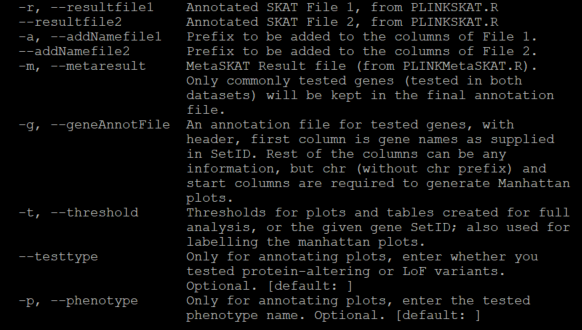
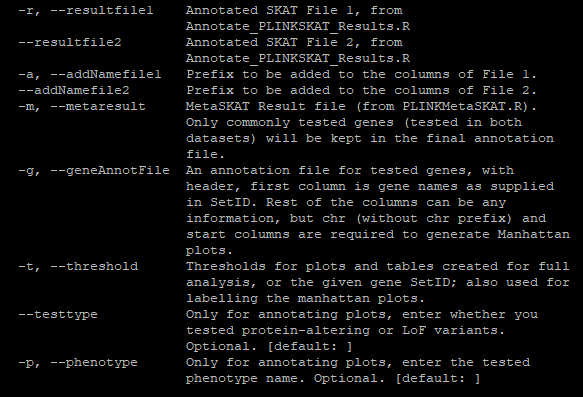
done

diff --git a/analysis_scripts/README.md b/analysis_scripts/README.md
@@ -2,7 +2,7 @@
 
 ------
 
-Analysis scripts of the gene-based rare variant association studies (RVASs) conducted for the study [**"Whole-exome rare variant analysis of Alzheimer’s disease and related biomarker traits"**](https://alz-journals.onlinelibrary.wiley.com/doi/10.1002/alz.12842) by Küçükali _et al._, Alzheimer's and Dementia (2022), https://doi.org/10.1002/alz.12842 .
+Analysis scripts of the gene-based rare variant association studies (RVASs) conducted for the paper [**"Whole-exome rare variant analysis of Alzheimer’s disease and related biomarker traits"**](https://alz-journals.onlinelibrary.wiley.com/doi/10.1002/alz.12842) by Küçükali _et al._, Alzheimer's and Dementia (2022), https://doi.org/10.1002/alz.12842 .
 
 ------
 
@@ -277,7 +277,9 @@ In addition to the columns explained in Annotate_PLINKSKAT_Results.R section (wh
 
 ## Examples <a name="7"></a>
 
-Below we provide examples for gene-based RVAS using these Rscripts based on a simulated genetic data and dummy phenotypic values.
+Below we provide examples for gene-based RVAS using these Rscripts based on a simulated genetic data and dummy phenotypic values. 
+
+All example data and example outputs are available under [here as a subdirectory](https://github.com/SleegersLab-VIBCMN/AD_Biomarkers_RareVariantAnalyses/tree/main/analysis_scripts/example_data).
 
 ### Simulated Genetic and Phenotypic Data <a name="8"></a>
 
@@ -417,6 +419,7 @@ Annotate_PLINKSKAT_Results.R --mode full --variable continuous --result cohort2_
 
 Run SKAT-O PLINKMetaSKAT.R for Cohort 1 and Cohort 2, with the ContPheno1 phenotype, and four covariates (binaryCov1 binaryCov2 contCov1 contCov2) for each cohort (separated as 4 covariates each).
 
+```bash
 PLINKMetaSKAT.R --studygenoOrdose genotype genotype --variable continuous --phenotypes ContPheno1 ContPheno1 --studyprefixnames rareVariants_simulatedGeneticData1 rareVariants_simulatedGeneticData2 --setIDnames simulatedGeneticData1_SetID simulatedGeneticData2_SetID --phenocovars simulatedGeneticData1_phenocovar.tsv simulatedGeneticData2_phenocovar.tsv --covnames binaryCov1 binaryCov2 contCov1 contCov2 binaryCov1 binaryCov2 contCov1 contCov2 --covnos 4 4 --out continuousMetaSKATO_wCov_results --impute_method fixed
 ```
 
